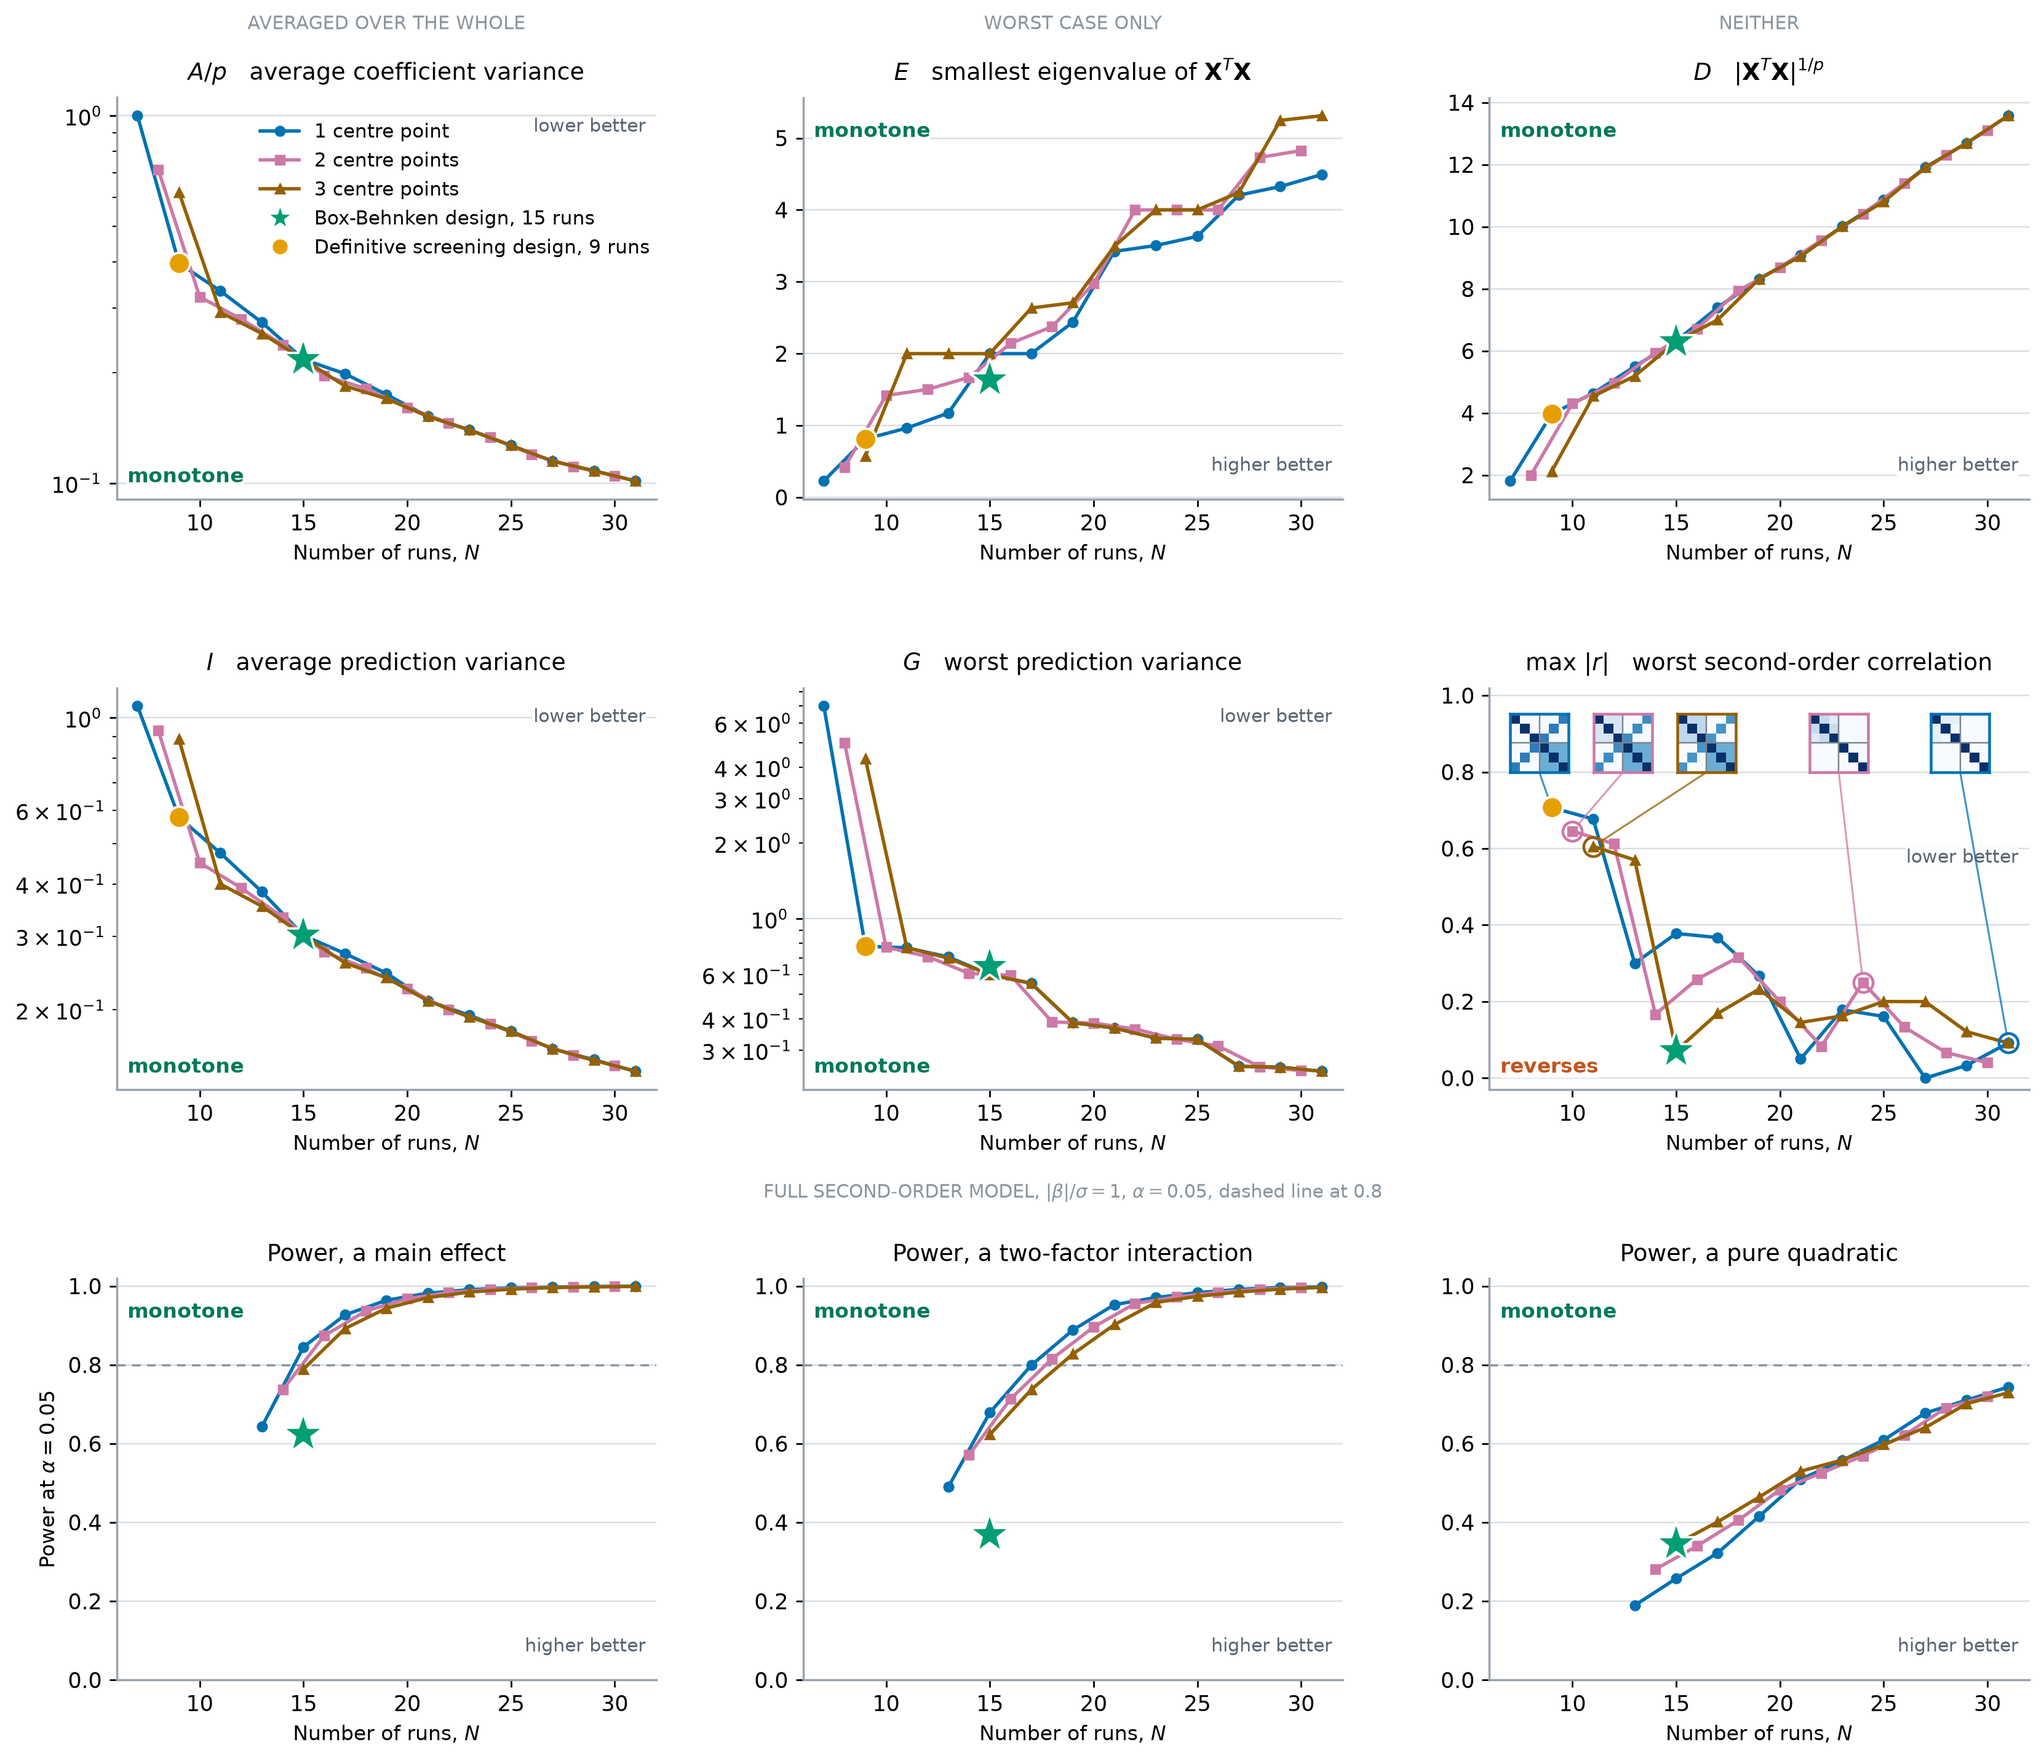
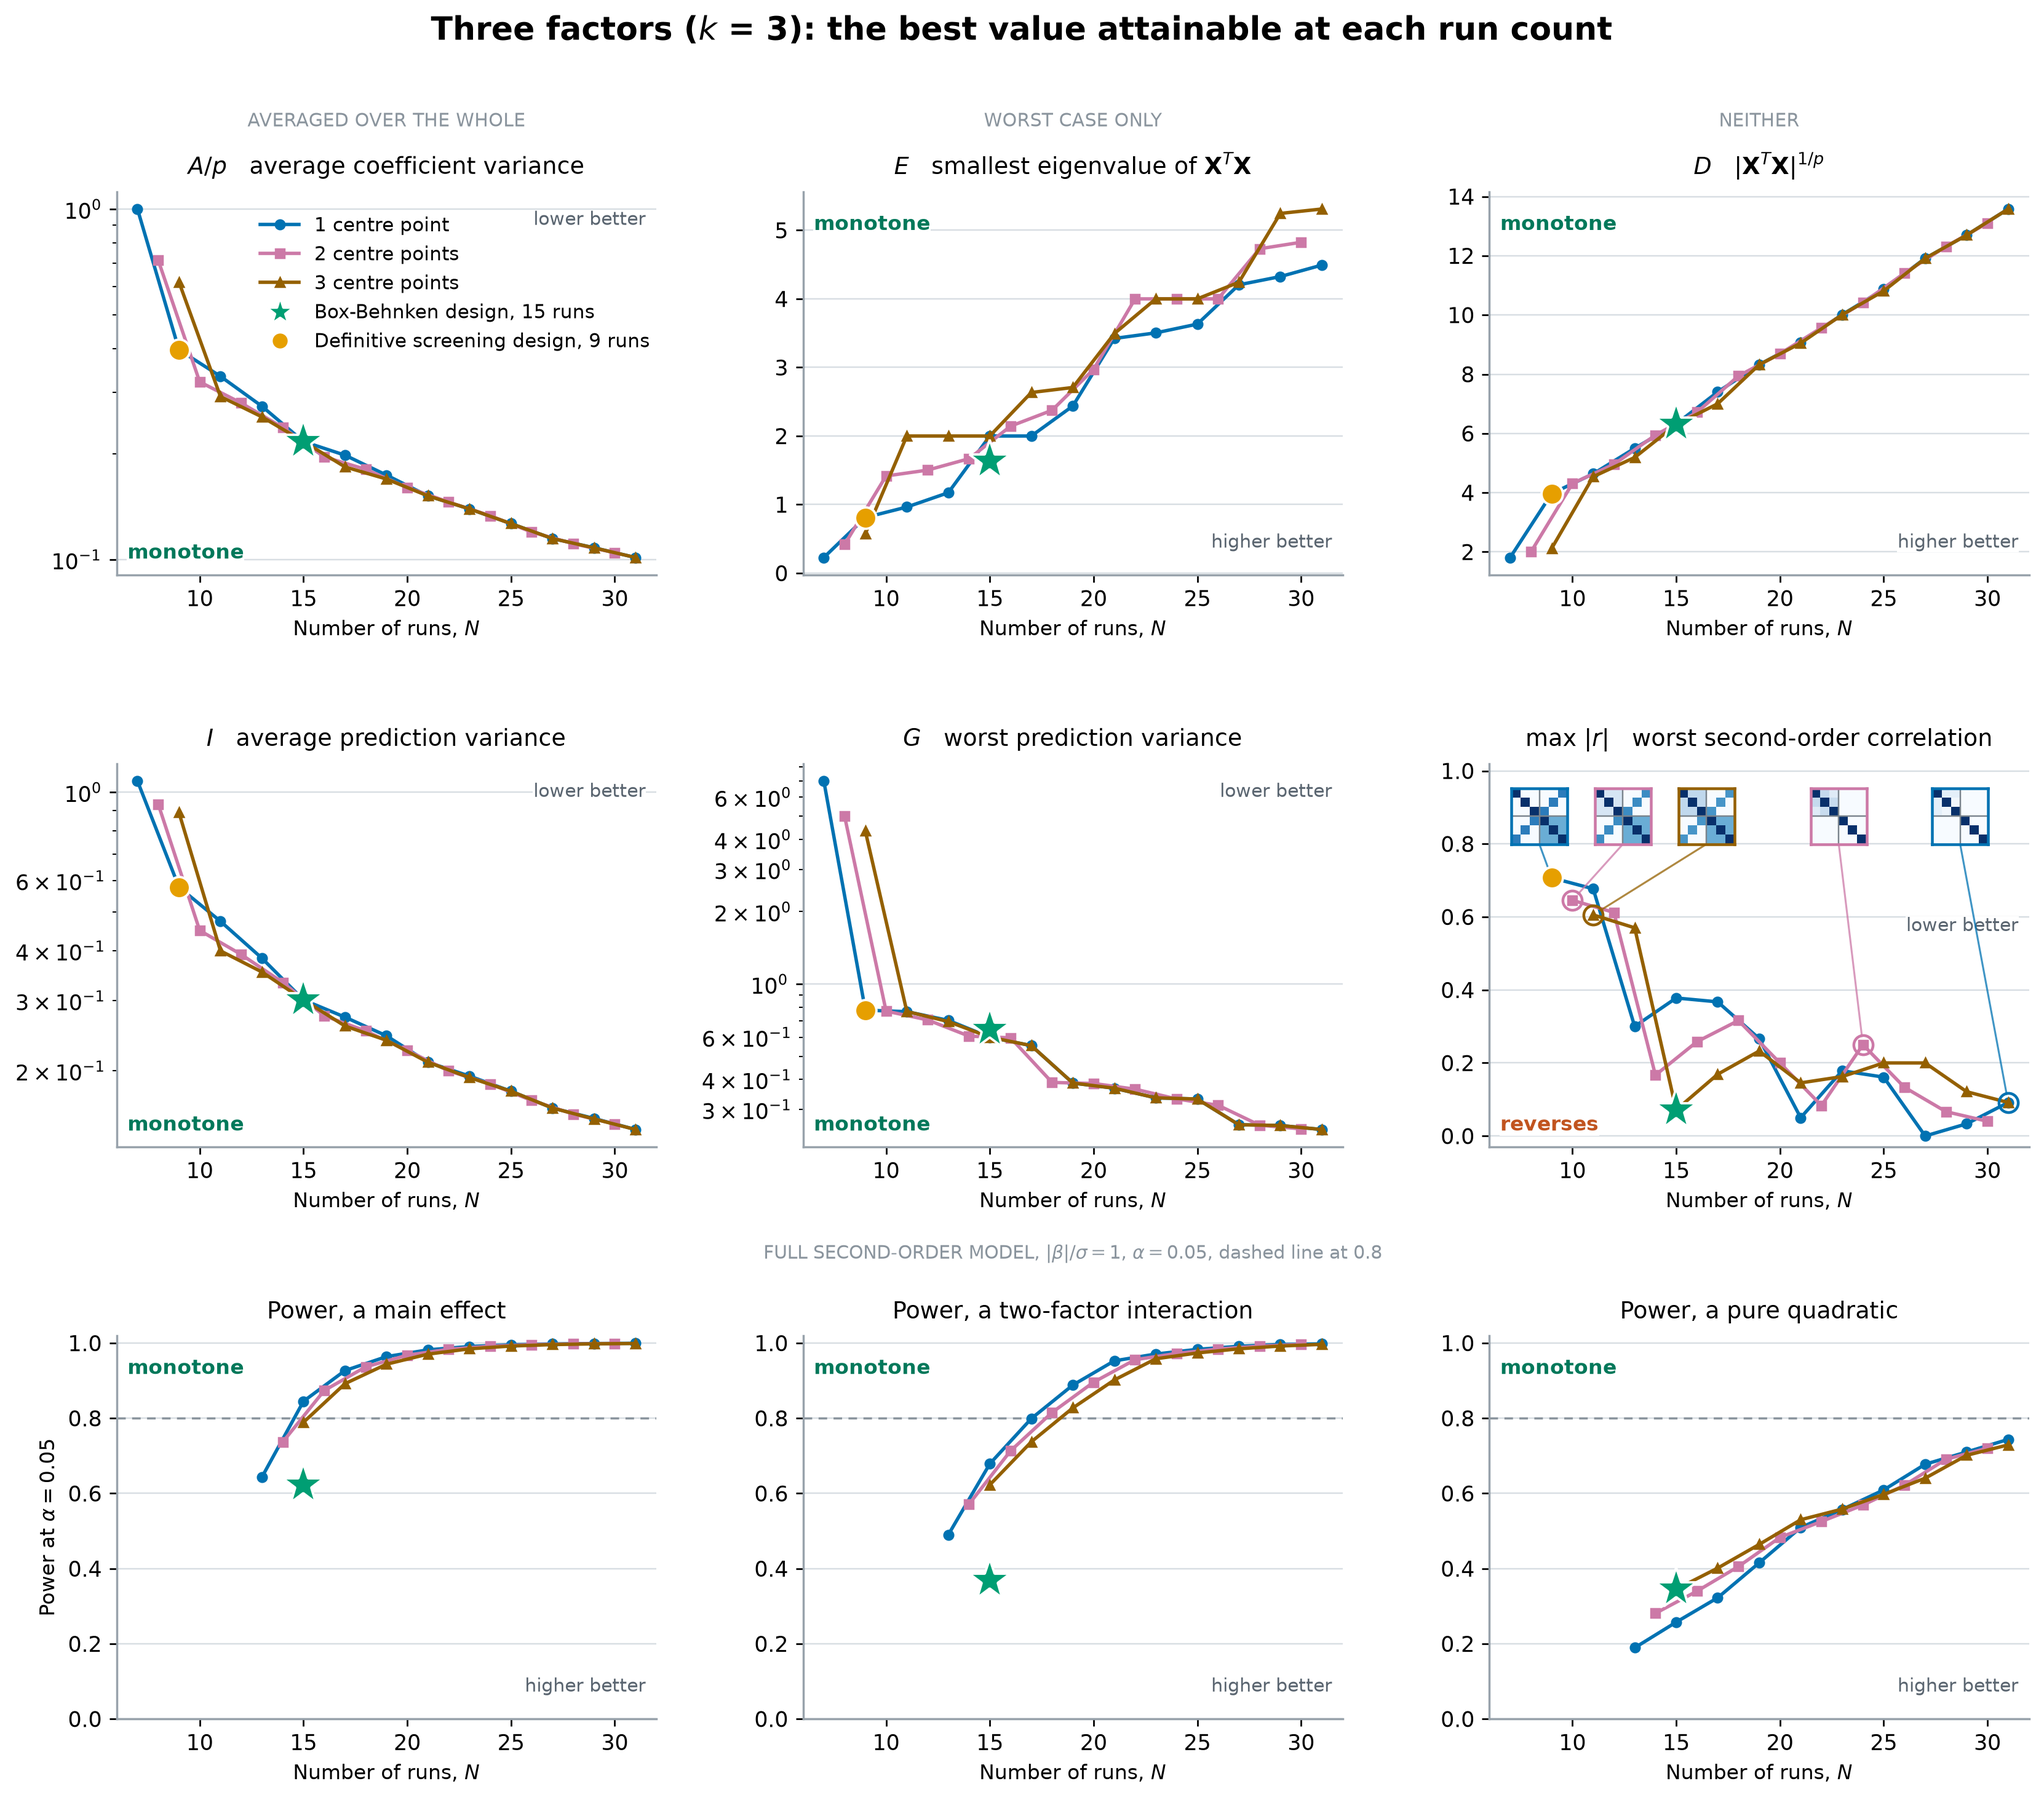
omars-metric-choice: add a heading naming the three factors
The nine panels never said they were for three factors; only the book's
caption did. A bold heading now says so, with k = 3 read from the script.

Claude-Session: https://claude.ai/code/session_01W1daHPaXLs7PPRsq8CmMMm

diff --git a/doe/omars-metric-choice.py b/doe/omars-metric-choice.py
@@ -384,6 +384,8 @@ labels += ["Box-Behnken design, 15 runs", "Definitive screening design, 9 runs"]
 axes[0, 0].legend(handles, labels, frameon=False, loc="upper right", fontsize=9,
                   bbox_to_anchor=(1.02, 0.98))
 
+fig.suptitle(f"Three factors ($k$ = {K}): the best value attainable at each run count",
+             fontsize=15, fontweight="bold", x=0.5, y=0.972)
 fig.tight_layout(rect=[0, 0, 1, 0.965])
 fig.savefig("omars-metric-choice.png", dpi=250, facecolor="w", edgecolor="w",
             bbox_inches="tight")
